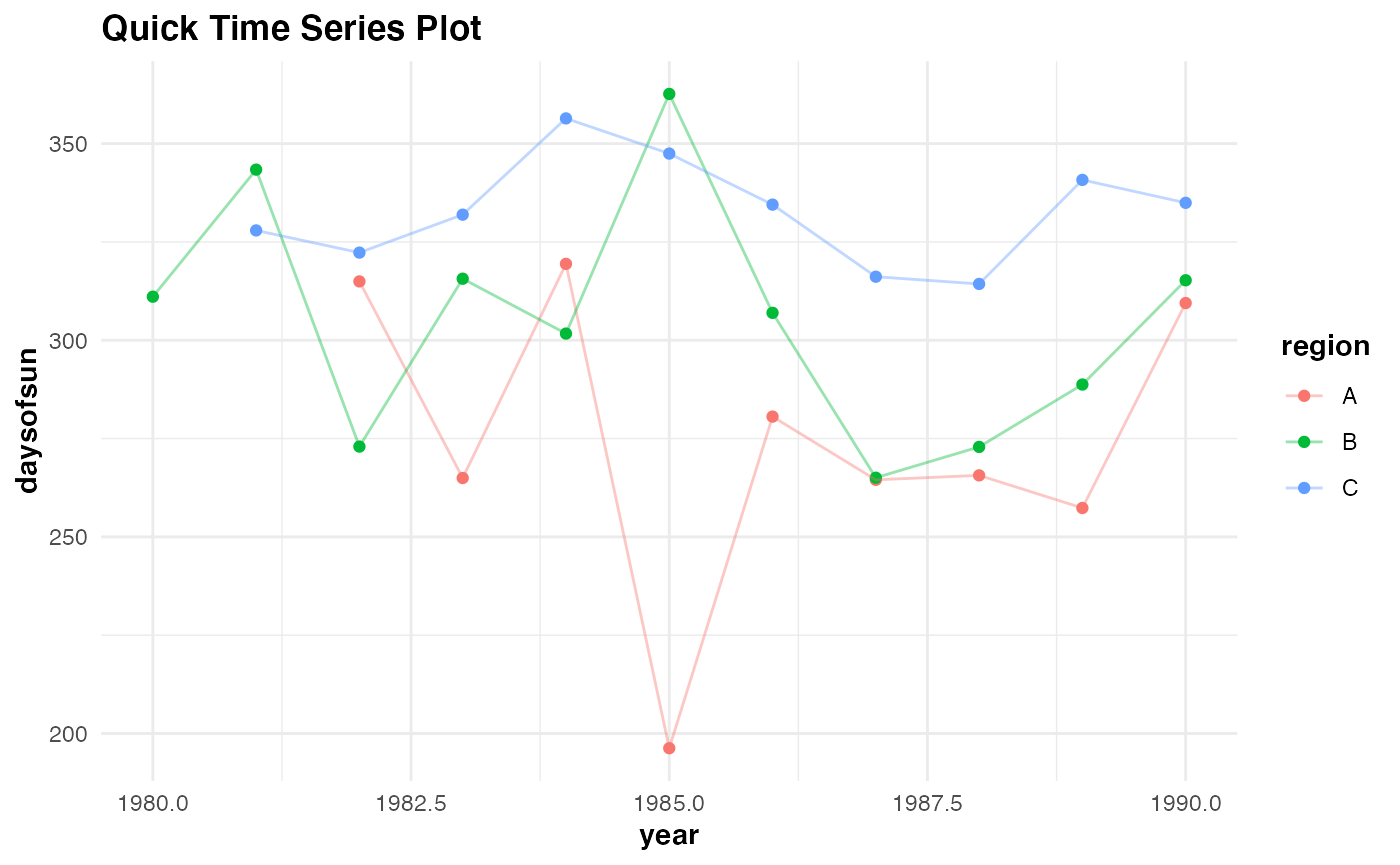
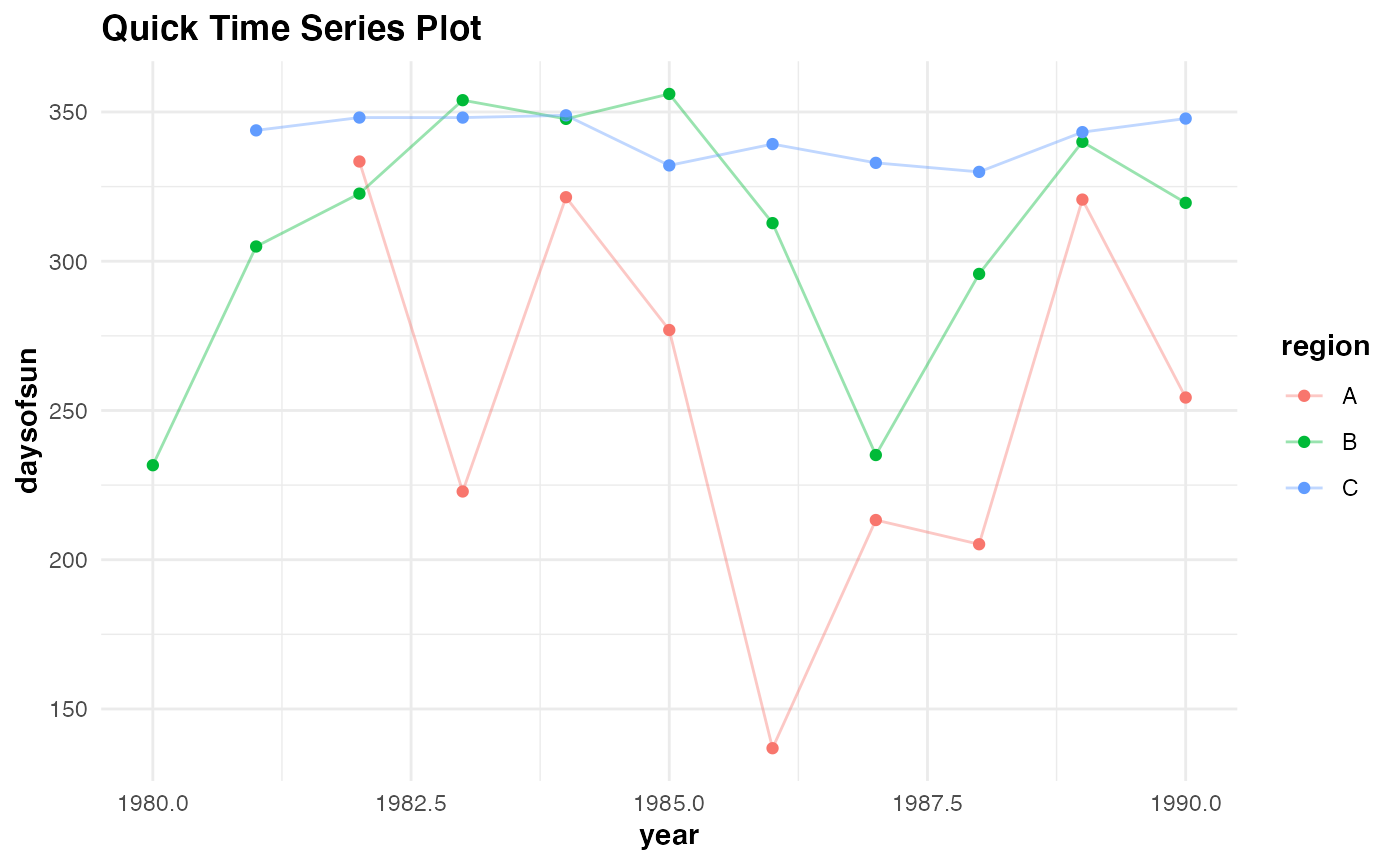
Built site for timeseries: 0.1.0@b756888

diff --git a/articles/qstacktseries.html b/articles/qstacktseries.html
@@ -5,13 +5,13 @@
 <meta charset="utf-8">
 <meta http-equiv="X-UA-Compatible" content="IE=edge">
 <meta name="viewport" content="width=device-width, initial-scale=1.0">
-<title>qtseries • timeseries</title>
+<title>qstacktseries • timeseries</title>
 <!-- jquery --><script src="https://cdnjs.cloudflare.com/ajax/libs/jquery/3.4.1/jquery.min.js" integrity="sha256-CSXorXvZcTkaix6Yvo6HppcZGetbYMGWSFlBw8HfCJo=" crossorigin="anonymous"></script><!-- Bootstrap --><link rel="stylesheet" href="https://cdnjs.cloudflare.com/ajax/libs/twitter-bootstrap/3.4.1/css/bootstrap.min.css" integrity="sha256-bZLfwXAP04zRMK2BjiO8iu9pf4FbLqX6zitd+tIvLhE=" crossorigin="anonymous">
 <script src="https://cdnjs.cloudflare.com/ajax/libs/twitter-bootstrap/3.4.1/js/bootstrap.min.js" integrity="sha256-nuL8/2cJ5NDSSwnKD8VqreErSWHtnEP9E7AySL+1ev4=" crossorigin="anonymous"></script><!-- bootstrap-toc --><link rel="stylesheet" href="../bootstrap-toc.css">
 <script src="../bootstrap-toc.js"></script><!-- Font Awesome icons --><link rel="stylesheet" href="https://cdnjs.cloudflare.com/ajax/libs/font-awesome/5.12.1/css/all.min.css" integrity="sha256-mmgLkCYLUQbXn0B1SRqzHar6dCnv9oZFPEC1g1cwlkk=" crossorigin="anonymous">
 <link rel="stylesheet" href="https://cdnjs.cloudflare.com/ajax/libs/font-awesome/5.12.1/css/v4-shims.min.css" integrity="sha256-wZjR52fzng1pJHwx4aV2AO3yyTOXrcDW7jBpJtTwVxw=" crossorigin="anonymous">
 <!-- clipboard.js --><script src="https://cdnjs.cloudflare.com/ajax/libs/clipboard.js/2.0.6/clipboard.min.js" integrity="sha256-inc5kl9MA1hkeYUt+EC3BhlIgyp/2jDIyBLS6k3UxPI=" crossorigin="anonymous"></script><!-- headroom.js --><script src="https://cdnjs.cloudflare.com/ajax/libs/headroom/0.11.0/headroom.min.js" integrity="sha256-AsUX4SJE1+yuDu5+mAVzJbuYNPHj/WroHuZ8Ir/CkE0=" crossorigin="anonymous"></script><script src="https://cdnjs.cloudflare.com/ajax/libs/headroom/0.11.0/jQuery.headroom.min.js" integrity="sha256-ZX/yNShbjqsohH1k95liqY9Gd8uOiE1S4vZc+9KQ1K4=" crossorigin="anonymous"></script><!-- pkgdown --><link href="../pkgdown.css" rel="stylesheet">
-<script src="../pkgdown.js"></script><meta property="og:title" content="qtseries">
+<script src="../pkgdown.js"></script><meta property="og:title" content="qstacktseries">
 <meta property="og:description" content="timeseries">
 <!-- mathjax --><script src="https://cdnjs.cloudflare.com/ajax/libs/mathjax/2.7.5/MathJax.js" integrity="sha256-nvJJv9wWKEm88qvoQl9ekL2J+k/RWIsaSScxxlsrv8k=" crossorigin="anonymous"></script><script src="https://cdnjs.cloudflare.com/ajax/libs/mathjax/2.7.5/config/TeX-AMS-MML_HTMLorMML.js" integrity="sha256-84DKXVJXs0/F8OTMzX4UR909+jtl4G7SPypPavF+GfA=" crossorigin="anonymous"></script><!--[if lt IE 9]>
 <script src="https://oss.maxcdn.com/html5shiv/3.7.3/html5shiv.min.js"></script>
@@ -75,15 +75,15 @@
 
       
 
-      </header><script src="qtseries_files/accessible-code-block-0.0.1/empty-anchor.js"></script><link href="qtseries_files/anchor-sections-1.0/anchor-sections.css" rel="stylesheet">
-<script src="qtseries_files/anchor-sections-1.0/anchor-sections.js"></script><div class="row">
+      </header><script src="qstacktseries_files/accessible-code-block-0.0.1/empty-anchor.js"></script><link href="qstacktseries_files/anchor-sections-1.0/anchor-sections.css" rel="stylesheet">
+<script src="qstacktseries_files/anchor-sections-1.0/anchor-sections.js"></script><div class="row">
   <div class="col-md-9 contents">
     <div class="page-header toc-ignore">
-      <h1 data-toc-skip>qtseries</h1>
+      <h1 data-toc-skip>qstacktseries</h1>
             
       
       
-      <div class="hidden name"><code>qtseries.Rmd</code></div>
+      <div class="hidden name"><code>qstacktseries.Rmd</code></div>
 
     </div>
 
@@ -101,35 +101,35 @@
 <span class="co">#&gt; The following objects are masked from 'package:base':</span>
 <span class="co">#&gt; </span>
 <span class="co">#&gt;     intersect, setdiff, setequal, union</span></code></pre></div>
-<p>This is how the function <code>qtseries</code> works:</p>
-<p>Building a time series plot with a dummy data set:</p>
+<p>This is how the function <code>qstacktseries</code> works:</p>
+<p>Building a stacked area time series plot with a dummy data set:</p>
 <div class="sourceCode" id="cb2"><pre class="downlit sourceCode r">
-<code class="sourceCode R"><span class="va">testdf</span> <span class="op">&lt;-</span> <span class="fu"><a href="https://rdrr.io/r/base/data.frame.html">data.frame</a></span><span class="op">(</span>year <span class="op">=</span> <span class="fu"><a href="https://rdrr.io/r/base/rep.html">rep</a></span><span class="op">(</span><span class="fu"><a href="https://rdrr.io/r/base/seq.html">seq</a></span><span class="op">(</span>from <span class="op">=</span> <span class="fl">1980</span>, to<span class="op">=</span> <span class="fl">1990</span>, <span class="fl">1</span><span class="op">)</span>, <span class="fl">3</span><span class="op">)</span>,
-                       rainfall <span class="op">=</span> <span class="fu"><a href="https://rdrr.io/r/base/c.html">c</a></span><span class="op">(</span><span class="fu"><a href="https://rdrr.io/r/stats/Normal.html">rnorm</a></span><span class="op">(</span><span class="fl">11</span>, <span class="fl">100</span>, <span class="fl">30</span><span class="op">)</span>, <span class="fu"><a href="https://rdrr.io/r/stats/Normal.html">rnorm</a></span><span class="op">(</span><span class="fl">11</span>, <span class="fl">70</span>, <span class="fl">10</span><span class="op">)</span>,<span class="fu"><a href="https://rdrr.io/r/stats/Normal.html">rnorm</a></span><span class="op">(</span><span class="fl">11</span>, <span class="fl">20</span>, <span class="fl">20</span><span class="op">)</span><span class="op">)</span>,
-                       temp <span class="op">=</span> <span class="fu"><a href="https://rdrr.io/r/base/c.html">c</a></span><span class="op">(</span><span class="fu"><a href="https://rdrr.io/r/stats/Normal.html">rnorm</a></span><span class="op">(</span><span class="fl">11</span>, <span class="fl">70</span>, <span class="fl">30</span><span class="op">)</span>, <span class="fu"><a href="https://rdrr.io/r/stats/Normal.html">rnorm</a></span><span class="op">(</span><span class="fl">11</span>, <span class="fl">100</span>, <span class="fl">10</span><span class="op">)</span>,<span class="fu"><a href="https://rdrr.io/r/stats/Normal.html">rnorm</a></span><span class="op">(</span><span class="fl">11</span>, <span class="fl">45</span>, <span class="fl">20</span><span class="op">)</span><span class="op">)</span>,
-                       daysofsun <span class="op">=</span> <span class="fu"><a href="https://rdrr.io/r/base/c.html">c</a></span><span class="op">(</span><span class="cn">NA</span>, <span class="cn">NA</span>, <span class="fu"><a href="https://rdrr.io/r/stats/Normal.html">rnorm</a></span><span class="op">(</span><span class="fl">9</span>, <span class="fl">280</span>, <span class="fl">50</span><span class="op">)</span>, <span class="fu"><a href="https://rdrr.io/r/stats/Normal.html">rnorm</a></span><span class="op">(</span><span class="fl">11</span>, <span class="fl">300</span>, <span class="fl">30</span><span class="op">)</span>, <span class="cn">NA</span>, <span class="fu"><a href="https://rdrr.io/r/stats/Normal.html">rnorm</a></span><span class="op">(</span><span class="fl">10</span>, <span class="fl">340</span>, <span class="fl">15</span><span class="op">)</span><span class="op">)</span>,
+<code class="sourceCode R">  <span class="va">testdf</span> <span class="op">&lt;-</span> <span class="fu"><a href="https://rdrr.io/r/base/data.frame.html">data.frame</a></span><span class="op">(</span>year <span class="op">=</span> <span class="fu"><a href="https://rdrr.io/r/base/rep.html">rep</a></span><span class="op">(</span><span class="fu"><a href="https://rdrr.io/r/base/seq.html">seq</a></span><span class="op">(</span>from <span class="op">=</span> <span class="fl">1980</span>, to<span class="op">=</span> <span class="fl">1990</span>, <span class="fl">1</span><span class="op">)</span>, <span class="fl">3</span><span class="op">)</span>,
+                       rainfall <span class="op">=</span> <span class="fu"><a href="https://rdrr.io/r/base/c.html">c</a></span><span class="op">(</span><span class="fu"><a href="https://rdrr.io/r/stats/Uniform.html">runif</a></span><span class="op">(</span><span class="fl">11</span>, <span class="fl">0</span>, <span class="fl">100</span><span class="op">)</span>, <span class="fu"><a href="https://rdrr.io/r/stats/Normal.html">rnorm</a></span><span class="op">(</span><span class="fl">11</span>, <span class="fl">70</span>, <span class="fl">10</span><span class="op">)</span>,
+                                    <span class="fu"><a href="https://rdrr.io/r/stats/Normal.html">rnorm</a></span><span class="op">(</span><span class="fl">11</span>, <span class="fl">20</span>, <span class="fl">20</span><span class="op">)</span><span class="op">)</span>,
+                       temp <span class="op">=</span> <span class="fu"><a href="https://rdrr.io/r/base/c.html">c</a></span><span class="op">(</span><span class="fu"><a href="https://rdrr.io/r/stats/Normal.html">rnorm</a></span><span class="op">(</span><span class="fl">11</span>, <span class="fl">70</span>, <span class="fl">30</span><span class="op">)</span>, <span class="fu"><a href="https://rdrr.io/r/stats/Normal.html">rnorm</a></span><span class="op">(</span><span class="fl">11</span>, <span class="fl">45</span>, <span class="fl">20</span><span class="op">)</span>, 
+                                <span class="fu"><a href="https://rdrr.io/r/stats/Normal.html">rnorm</a></span><span class="op">(</span><span class="fl">11</span>, <span class="fl">100</span>, <span class="fl">10</span><span class="op">)</span><span class="op">)</span>,
+                       daysofsun <span class="op">=</span> <span class="fu"><a href="https://rdrr.io/r/base/c.html">c</a></span><span class="op">(</span><span class="cn">NA</span>, <span class="cn">NA</span>, <span class="fu"><a href="https://rdrr.io/r/stats/Normal.html">rnorm</a></span><span class="op">(</span><span class="fl">9</span>, <span class="fl">280</span>, <span class="fl">50</span><span class="op">)</span>, <span class="fu"><a href="https://rdrr.io/r/stats/Normal.html">rnorm</a></span><span class="op">(</span><span class="fl">11</span>, <span class="fl">300</span>, <span class="fl">30</span><span class="op">)</span>, <span class="cn">NA</span>, 
+                                     <span class="fu"><a href="https://rdrr.io/r/stats/Normal.html">rnorm</a></span><span class="op">(</span><span class="fl">10</span>, <span class="fl">340</span>, <span class="fl">15</span><span class="op">)</span><span class="op">)</span>,
                        region <span class="op">=</span> <span class="fu"><a href="https://rdrr.io/r/base/c.html">c</a></span><span class="op">(</span><span class="fu"><a href="https://rdrr.io/r/base/rep.html">rep</a></span><span class="op">(</span><span class="st">"A"</span>,<span class="fl">11</span><span class="op">)</span>, <span class="fu"><a href="https://rdrr.io/r/base/rep.html">rep</a></span><span class="op">(</span><span class="st">"B"</span>, <span class="fl">11</span><span class="op">)</span>, <span class="fu"><a href="https://rdrr.io/r/base/rep.html">rep</a></span><span class="op">(</span><span class="st">"C"</span>, <span class="fl">11</span><span class="op">)</span><span class="op">)</span><span class="op">)</span></code></pre></div>
 <div class="sourceCode" id="cb3"><pre class="downlit sourceCode r">
-<code class="sourceCode R"><span class="fu"><a href="../reference/qtseries.html">qtseries</a></span><span class="op">(</span><span class="va">testdf</span>, <span class="va">year</span>, <span class="va">daysofsun</span>, <span class="va">region</span>, verbose <span class="op">=</span> <span class="cn">TRUE</span><span class="op">)</span>
-<span class="co">#&gt; Plotting time series...Done labelling plot!...Done applying default theme aesthetics!</span>
-<span class="co">#&gt; Warning: Removed 3 rows containing missing values (geom_point).</span>
-<span class="co">#&gt; Warning: Removed 3 row(s) containing missing values (geom_path).</span></code></pre></div>
-<p><img src="qtseries_files/figure-html/example%201-1.png" width="700"></p>
-<p>Building a time series plot with the <em>gapminder</em> data set:</p>
-<div class="sourceCode" id="cb4"><pre class="downlit sourceCode r">
-<code class="sourceCode R"><span class="fu"><a href="../reference/qtseries.html">qtseries</a></span><span class="op">(</span><span class="va">gapminder</span> <span class="op">%&gt;%</span>
-            <span class="fu"><a href="https://dplyr.tidyverse.org/reference/filter.html">filter</a></span><span class="op">(</span><span class="va">continent</span> <span class="op">==</span> <span class="st">"Europe"</span><span class="op">)</span>, <span class="va">year</span>, <span class="va">pop</span>, <span class="va">country</span>, verbose <span class="op">=</span> <span class="cn">TRUE</span><span class="op">)</span>
+<code class="sourceCode R"><span class="fu"><a href="../reference/qstacktseries.html">qstacktseries</a></span><span class="op">(</span><span class="va">testdf</span>, <span class="va">year</span>, <span class="va">rainfall</span>, <span class="va">region</span>, verbose <span class="op">=</span> <span class="cn">TRUE</span><span class="op">)</span>
 <span class="co">#&gt; Plotting time series...Done labelling plot!...Done applying default theme aesthetics!</span></code></pre></div>
-<p><img src="qtseries_files/figure-html/example%202-1.png" width="700"></p>
-<p>Some errors you might see if <code>qtseries</code> is given non-numeric variables for the <em>time</em> or <em>voi</em> inputs:</p>
+<p><img src="qstacktseries_files/figure-html/example%201-1.png" width="700"> Building a stacked area time series plot with a pre-existing data set: <em>gapminder</em></p>
+<div class="sourceCode" id="cb4"><pre class="downlit sourceCode r">
+<code class="sourceCode R"><span class="fu"><a href="../reference/qstacktseries.html">qstacktseries</a></span><span class="op">(</span><span class="va">gapminder</span> <span class="op">%&gt;%</span>
+                <span class="fu"><a href="https://dplyr.tidyverse.org/reference/filter.html">filter</a></span><span class="op">(</span><span class="va">continent</span> <span class="op">==</span> <span class="st">"Asia"</span><span class="op">)</span>, <span class="va">year</span>, <span class="va">gdpPercap</span>, <span class="va">country</span>, verbose <span class="op">=</span> <span class="cn">TRUE</span><span class="op">)</span>
+<span class="co">#&gt; Plotting time series...Done labelling plot!...Done applying default theme aesthetics!</span></code></pre></div>
+<p><img src="qstacktseries_files/figure-html/example%202-1.png" width="700"> These are some errors you might see if <code>qstacktseries</code> is given non-numeric input for the <em>time</em> or <em>voi</em> inputs:</p>
 <div class="sourceCode" id="cb5"><pre class="downlit sourceCode r">
-<code class="sourceCode R"><span class="fu"><a href="../reference/qtseries.html">qtseries</a></span><span class="op">(</span><span class="va">gapminder</span> <span class="op">%&gt;%</span>
-            <span class="fu"><a href="https://dplyr.tidyverse.org/reference/filter.html">filter</a></span><span class="op">(</span><span class="va">continent</span> <span class="op">==</span> <span class="st">"Americas"</span><span class="op">)</span>,<span class="va">continent</span>, <span class="va">pop</span>, <span class="va">country</span>, verbose <span class="op">=</span> <span class="cn">TRUE</span><span class="op">)</span>
-<span class="co">#&gt; Error in qtseries(gapminder %&gt;% filter(continent == "Americas"), continent, : Sorry, the time variable needs to be a numeric variable!</span>
+<code class="sourceCode R">
+<span class="fu"><a href="../reference/qstacktseries.html">qstacktseries</a></span><span class="op">(</span><span class="va">gapminder</span> <span class="op">%&gt;%</span>
+                <span class="fu"><a href="https://dplyr.tidyverse.org/reference/filter.html">filter</a></span><span class="op">(</span><span class="va">continent</span> <span class="op">==</span> <span class="st">"Asia"</span><span class="op">)</span>,<span class="va">continent</span>, <span class="va">pop</span>, <span class="va">country</span>, verbose <span class="op">=</span> <span class="cn">TRUE</span><span class="op">)</span>
+<span class="co">#&gt; Error in qstacktseries(gapminder %&gt;% filter(continent == "Asia"), continent, : Sorry, the time variable needs to be a numeric variable!</span>
 
-<span class="fu"><a href="../reference/qtseries.html">qtseries</a></span><span class="op">(</span><span class="va">gapminder</span> <span class="op">%&gt;%</span>
-              <span class="fu"><a href="https://dplyr.tidyverse.org/reference/filter.html">filter</a></span><span class="op">(</span><span class="va">continent</span> <span class="op">==</span> <span class="st">"Europe"</span><span class="op">)</span>,<span class="va">year</span>, <span class="va">country</span>, <span class="va">continent</span>, verbose <span class="op">=</span> <span class="cn">TRUE</span><span class="op">)</span>
-<span class="co">#&gt; Error in qtseries(gapminder %&gt;% filter(continent == "Europe"), year, country, : Sorry, the variable of interest (dependent) needs to be a numeric variable!</span></code></pre></div>
+<span class="fu"><a href="../reference/qstacktseries.html">qstacktseries</a></span><span class="op">(</span><span class="va">gapminder</span> <span class="op">%&gt;%</span>
+                <span class="fu"><a href="https://dplyr.tidyverse.org/reference/filter.html">filter</a></span><span class="op">(</span><span class="va">continent</span> <span class="op">==</span> <span class="st">"Africa"</span><span class="op">)</span>, <span class="va">year</span>, <span class="va">country</span>, <span class="va">continent</span>, verbose <span class="op">=</span> <span class="cn">TRUE</span><span class="op">)</span>
+<span class="co">#&gt; Error in qstacktseries(gapminder %&gt;% filter(continent == "Africa"), year, : Sorry, the variable of interest (dependent) needs to be a numeric variable!</span></code></pre></div>
   </div>
 
   <div class="col-md-3 hidden-xs hidden-sm" id="pkgdown-sidebar">

diff --git a/articles/qstacktseries_files/anchor-sections-1.0/anchor-sections.js b/articles/qstacktseries_files/anchor-sections-1.0/anchor-sections.js
@@ -1,0 +1,33 @@
+// Anchor sections v1.0 written by Atsushi Yasumoto on Oct 3rd, 2020.
+document.addEventListener('DOMContentLoaded', function() {
+  // Do nothing if AnchorJS is used
+  if (typeof window.anchors === 'object' && anchors.hasOwnProperty('hasAnchorJSLink')) {
+    return;
+  }
+
+  const h = document.querySelectorAll('h1, h2, h3, h4, h5, h6');
+
+  // Do nothing if sections are already anchored
+  if (Array.from(h).some(x => x.classList.contains('hasAnchor'))) {
+    return null;
+  }
+
+  // Use section id when pandoc runs with --section-divs
+  const section_id = function(x) {
+    return ((x.classList.contains('section') || (x.tagName === 'SECTION'))
+            ? x.id : '');
+  };
+
+  // Add anchors
+  h.forEach(function(x) {
+    const id = x.id || section_id(x.parentElement);
+    if (id === '') {
+      return null;
+    }
+    let anchor = document.createElement('a');
+    anchor.href = '#' + id;
+    anchor.classList = ['anchor-section'];
+    x.classList.add('hasAnchor');
+    x.appendChild(anchor);
+  });
+});

diff --git a/articles/qstacktseries_files/accessible-code-block-0.0.1/empty-anchor.js b/articles/qstacktseries_files/accessible-code-block-0.0.1/empty-anchor.js
@@ -1,0 +1,15 @@
+// Hide empty <a> tag within highlighted CodeBlock for screen reader accessibility (see https://github.com/jgm/pandoc/issues/6352#issuecomment-626106786) -->
+// v0.0.1
+// Written by JooYoung Seo (jooyoung@psu.edu) and Atsushi Yasumoto on June 1st, 2020.
+
+document.addEventListener('DOMContentLoaded', function() {
+  const codeList = document.getElementsByClassName("sourceCode");
+  for (var i = 0; i < codeList.length; i++) {
+    var linkList = codeList[i].getElementsByTagName('a');
+    for (var j = 0; j < linkList.length; j++) {
+      if (linkList[j].innerHTML === "") {
+        linkList[j].setAttribute('aria-hidden', 'true');
+      }
+    }
+  }
+});

diff --git a/articles/index.html b/articles/index.html
@@ -94,6 +94,9 @@
   </a>
   <ul class="dropdown-menu" role="menu">
     <li>
+      <a href="../articles/qstacktseries.html">qstacktseries</a>
+    </li>
+    <li>
       <a href="../articles/qtseries.html">qtseries</a>
     </li>
   </ul>
@@ -125,6 +128,8 @@
       <p class="section-desc"></p>
 
       <dl>
+        <dt><a href="qstacktseries.html">qstacktseries</a></dt>
+        <dd></dt>
         <dt><a href="qtseries.html">qtseries</a></dt>
         <dd></dt>
       </dl>

diff --git a/news/index.html b/news/index.html
@@ -94,6 +94,9 @@
   </a>
   <ul class="dropdown-menu" role="menu">
     <li>
+      <a href="../articles/qstacktseries.html">qstacktseries</a>
+    </li>
+    <li>
       <a href="../articles/qtseries.html">qtseries</a>
     </li>
   </ul>

diff --git a/reference/index.html b/reference/index.html
@@ -94,6 +94,9 @@
   </a>
   <ul class="dropdown-menu" role="menu">
     <li>
+      <a href="../articles/qstacktseries.html">qstacktseries</a>
+    </li>
+    <li>
       <a href="../articles/qtseries.html">qtseries</a>
     </li>
   </ul>

diff --git a/reference/pipe.html b/reference/pipe.html
@@ -95,6 +95,9 @@
   </a>
   <ul class="dropdown-menu" role="menu">
     <li>
+      <a href="../articles/qstacktseries.html">qstacktseries</a>
+    </li>
+    <li>
       <a href="../articles/qtseries.html">qtseries</a>
     </li>
   </ul>

diff --git a/reference/qstacktseries.html b/reference/qstacktseries.html
@@ -95,6 +95,9 @@
   </a>
   <ul class="dropdown-menu" role="menu">
     <li>
+      <a href="../articles/qstacktseries.html">qstacktseries</a>
+    </li>
+    <li>
       <a href="../articles/qtseries.html">qtseries</a>
     </li>
   </ul>

diff --git a/reference/qtseries.html b/reference/qtseries.html
@@ -95,6 +95,9 @@
   </a>
   <ul class="dropdown-menu" role="menu">
     <li>
+      <a href="../articles/qstacktseries.html">qstacktseries</a>
+    </li>
+    <li>
       <a href="../articles/qtseries.html">qtseries</a>
     </li>
   </ul>

diff --git a/404.html b/404.html
@@ -94,6 +94,9 @@
   </a>
   <ul class="dropdown-menu" role="menu">
     <li>
+      <a href="articles/qstacktseries.html">qstacktseries</a>
+    </li>
+    <li>
       <a href="articles/qtseries.html">qtseries</a>
     </li>
   </ul>

diff --git a/CODE_OF_CONDUCT.html b/CODE_OF_CONDUCT.html
@@ -94,6 +94,9 @@
   </a>
   <ul class="dropdown-menu" role="menu">
     <li>
+      <a href="articles/qstacktseries.html">qstacktseries</a>
+    </li>
+    <li>
       <a href="articles/qtseries.html">qtseries</a>
     </li>
   </ul>

diff --git a/LICENSE-text.html b/LICENSE-text.html
@@ -94,6 +94,9 @@
   </a>
   <ul class="dropdown-menu" role="menu">
     <li>
+      <a href="articles/qstacktseries.html">qstacktseries</a>
+    </li>
+    <li>
       <a href="articles/qtseries.html">qtseries</a>
     </li>
   </ul>
